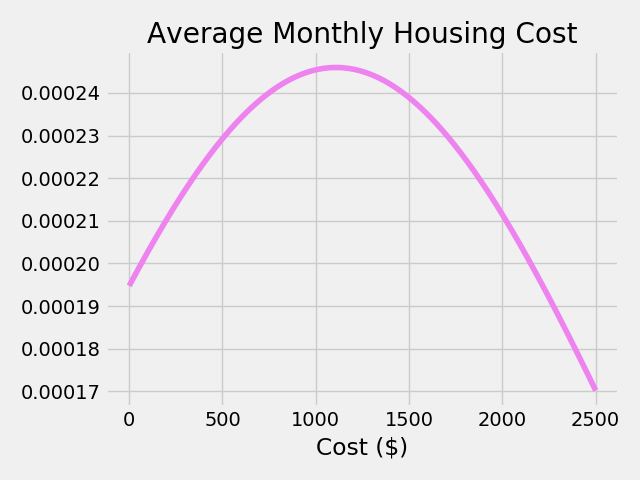
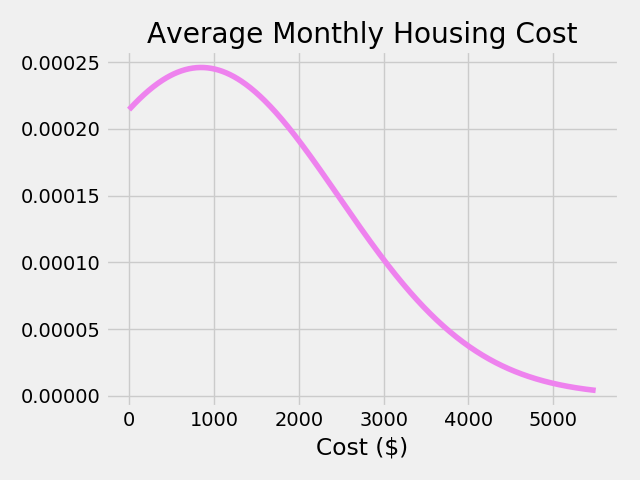
main visualizations done

diff --git a/src/cap1_script.py b/src/cap1_script.py
@@ -69,6 +69,24 @@ def plot_dist(mu, sigma, xmin, xmax, title, xlabel, color):
     plt.tight_layout()
 
 
+def weighted_means(ref_df, search_df, col, which_total):
+    lst = []
+    for i in ref_df:
+        weight = search_df['Bucket Total'][search_df[col] == i] / which_total
+        lst.append(weight)
+
+    mean = weighted_means_helper(lst, ref_df)
+    return mean
+
+def weighted_means_helper(weights, targets):
+    total = 0
+    for (i,j) in zip(weights, targets):
+        total += float(i*j)
+    return total
+
+
+
+
 if __name__ == "__main__":
 
 # Initialize dfs
@@ -189,10 +207,13 @@ if __name__ == "__main__":
 
     n = len(food_fem)
 
-    food_mean = np.mean([food_male.mean(), food_fem.mean()])
-    healthcare_mean = np.mean([healthcare_male.mean(), healthcare_fem.mean()])
-    housing_mean = np.mean([housing_male.mean(), housing_fem.mean()])
-    transportation_mean = np.mean([transportation_male.mean(), transportation_fem.mean()])
+    total_women = single_fem['Bucket Total'].iloc[0]
+    total_men = single_male['Bucket Total'].iloc[0]
+
+    food_mean = np.mean([weighted_means(food_fem, single_fem, 'Food', total_women), weighted_means(food_male, single_male, 'Food', total_men)])
+    healthcare_mean = np.mean([weighted_means(healthcare_fem, single_fem, 'Healthcare', total_women), weighted_means(healthcare_male, single_male, 'Healthcare', total_men)])
+    housing_mean = np.mean([weighted_means(housing_fem, single_fem, 'Housing', total_women), weighted_means(housing_male, single_male, 'Housing', total_men)])
+    transportation_mean = np.mean([weighted_means(transportation_fem, single_fem, 'Transportation', total_women), weighted_means(transportation_male, single_male, 'Transportation', total_men)])
 
     food_std = np.mean([food_male.std(), food_fem.std()])
     healthcare_std = np.mean([healthcare_male.std(), healthcare_fem.std()])
@@ -200,19 +221,38 @@ if __name__ == "__main__":
     transportation_std = np.mean([transportation_male.std(), transportation_fem.std()])
 
 
-    plot_dist(food_mean/12, food_std/np.sqrt(n), 0, 800, "Average Monthly Food Cost", "Cost ($)", 'orange')
+    plot_dist(food_mean/12, food_std/np.sqrt(n), 0, 1600, "Average Monthly Food Cost", "Cost ($)", 'orange')
     plt.savefig('images/food_dist.png')
+    plt.show()
     # plt.close()
+    
 
-    plot_dist(housing_mean/12, housing_std/np.sqrt(n), 0, 2500, "Average Monthly Housing Cost", "Cost ($)", 'violet')
+    plot_dist(housing_mean/12, housing_std/np.sqrt(n), 0, 5500, "Average Monthly Housing Cost", "Cost ($)", 'violet')
     plt.savefig('images/housing_dist.png')
     # plt.close()
+    plt.show()
 
-    plot_dist(healthcare_mean/12, healthcare_std/np.sqrt(n), 0, 500, "Average Monthly Healthcare Cost", "Cost ($)", 'yellowgreen')
-    # plt.show()
+    plot_dist(healthcare_mean/12, healthcare_std/np.sqrt(n), 0, 1300, "Average Monthly Healthcare Cost", "Cost ($)", 'yellowgreen')
+    plt.savefig("images/healthcare_dist.png")
+    plt.show()
+    # plt.close()
+
+    plot_dist(transportation_mean/12, transportation_std/np.sqrt(n), 0, 2900, "Average Monthly Transportation Cost", "Cost ($)", 'tan')
+    plt.savefig("images/transportation_dist.png")
+    plt.show()
+
+    
+
+    
 
 
-    total_women = 20785
+    
+
+
+
+
+
+
 
 
 

diff --git a/README.md b/README.md
@@ -6,6 +6,7 @@ gee that'd be swell
 # Data
 
 assumptions about normal distribution
+Limitations of pre-aggregated data, weighted relatively heavily in the lowest two buckets
 ## U.S. Census
 ### Rent
 ### Mortgage
@@ -20,7 +21,20 @@ only people making up to 69k/yr
 
 ![](images/mortgage_hist.png)
 ## Other "Core" Expenses
-![](images/)
+
+
+### Food
+
+![](images/food_dist.png)
+
+### Healthcare
+
+![](images/healthcare_dist.png)
+
+### Transportation
+
+![](images/transportation_dist.png)
+
 ## The Full Picture
 ### How does it compare?
 Colorado min wage
